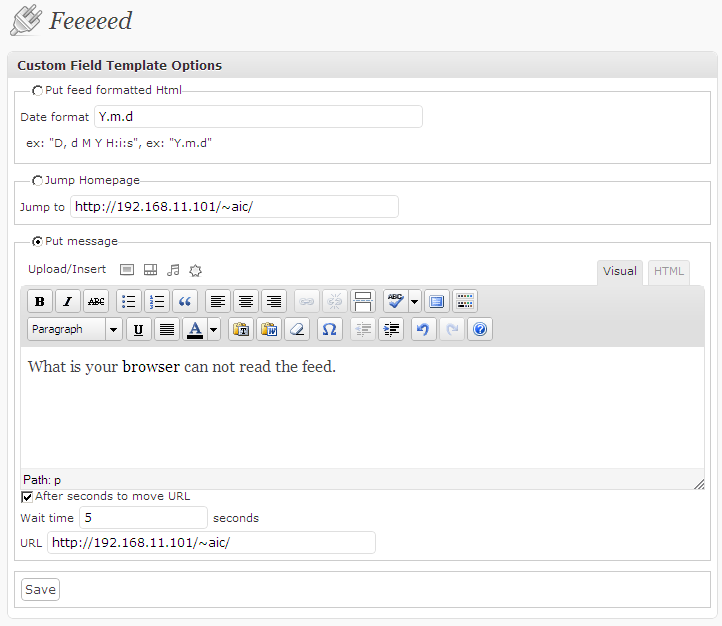
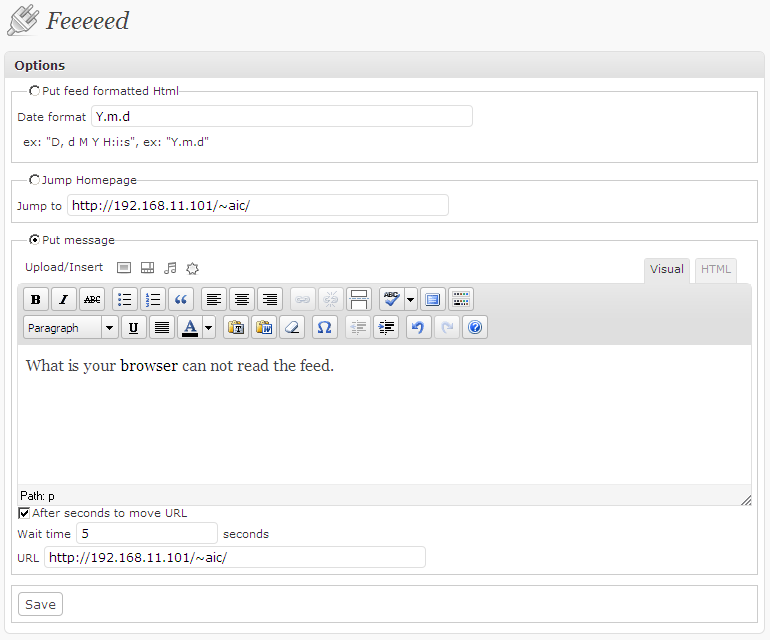
git-svn-id: https://plugins.svn.wordpress.org/feeeeed/trunk@377205 b8457f37-d9ea-0310-8a92-e5e31aec5664

Changed region(s): [[0.0, 0.0911, 0.9751, 1.0], [0.0, 0.0, 0.1828, 0.0607], [0.9446, 0.7588, 0.9751, 0.7891]]

diff --git a/feeeeed.php b/feeeeed.php
@@ -4,7 +4,7 @@ Plugin Name: feeeeed
 Plugin URI: http://takeai.silverpigeon.jp/
 Description: Feeeeed is a plugin that is Measures against browser that is not supports feed.
 Author: AI.Takeuchi
-Version: 0.9.1
+Version: 0.9.2
 Author URI: http://takeai.silverpigeon.jp/
 */
 

diff --git a/module/execute_admin.php b/module/execute_admin.php
@@ -88,7 +88,7 @@ function echoMenuList(&$obj, $msg = '') {
     ?>
       
 <div class="postbox feeeeed_postbox">
-  <h3>Custom Field Template Options</h3>
+  <h3>Options</h3>
   <div class="inside">
     
     <fieldset>
